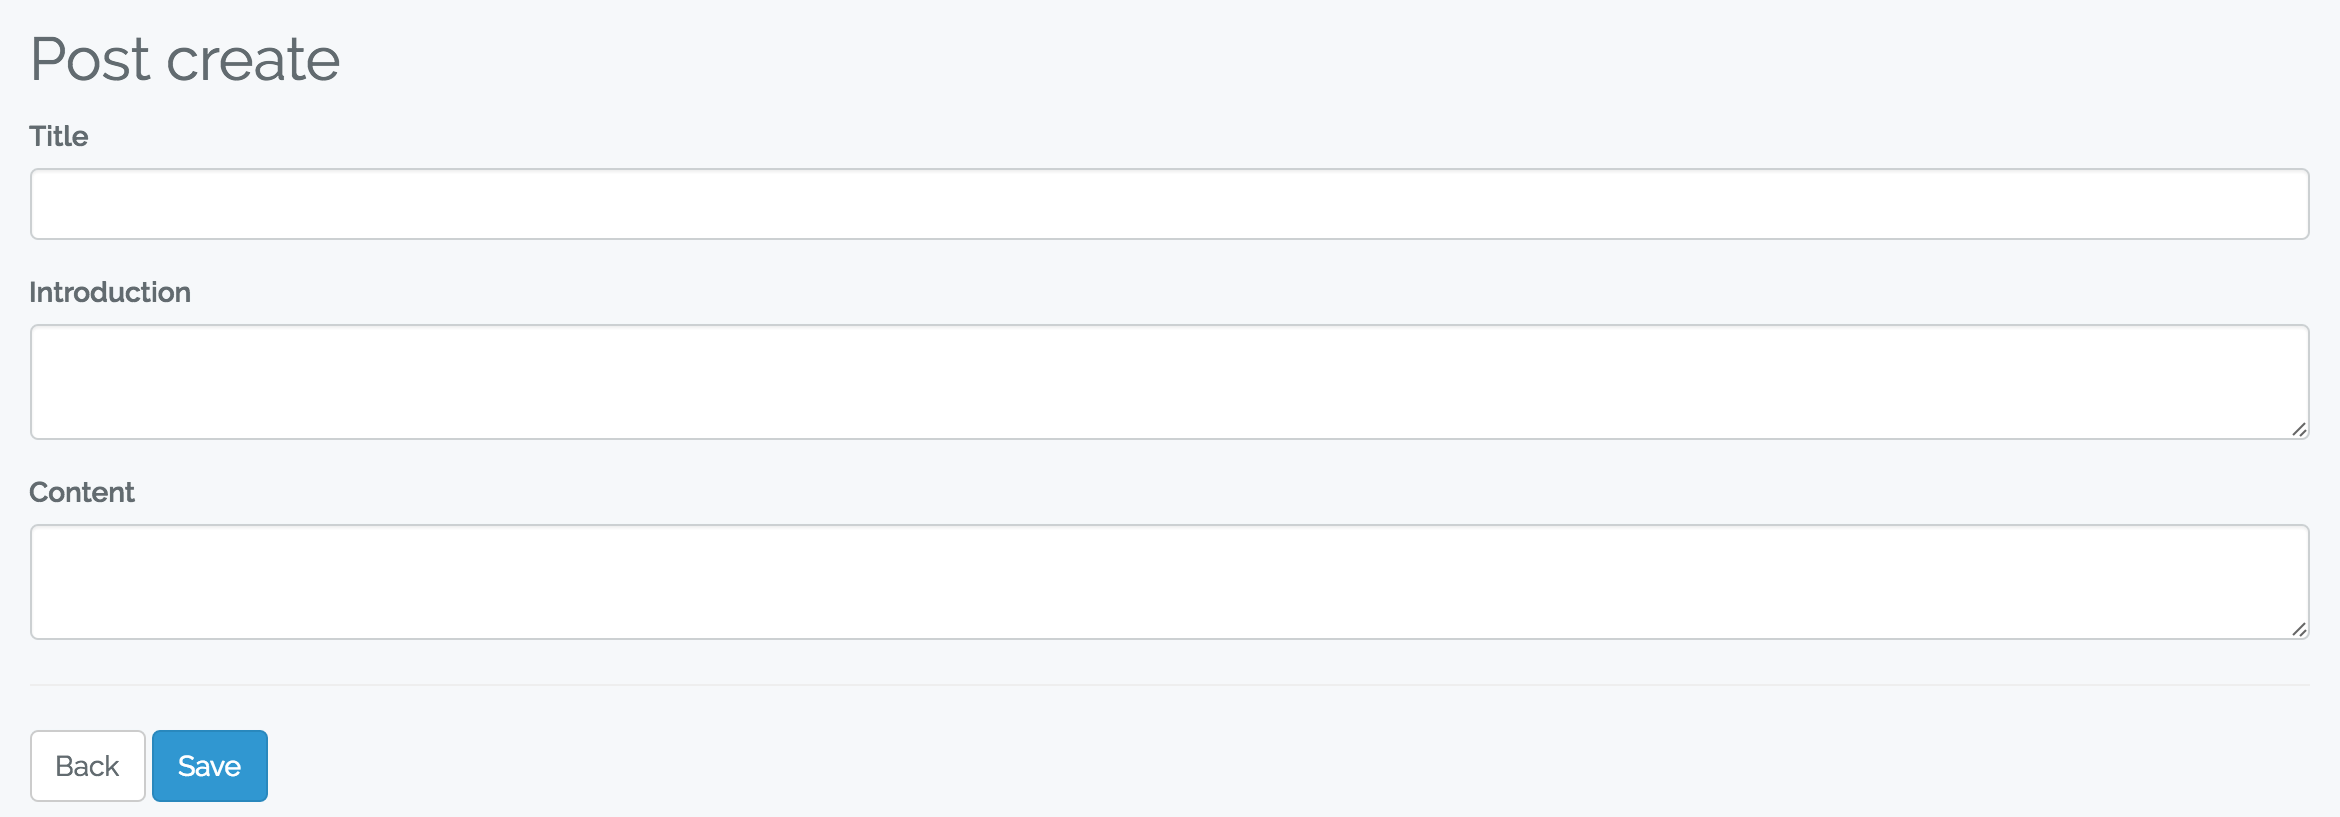
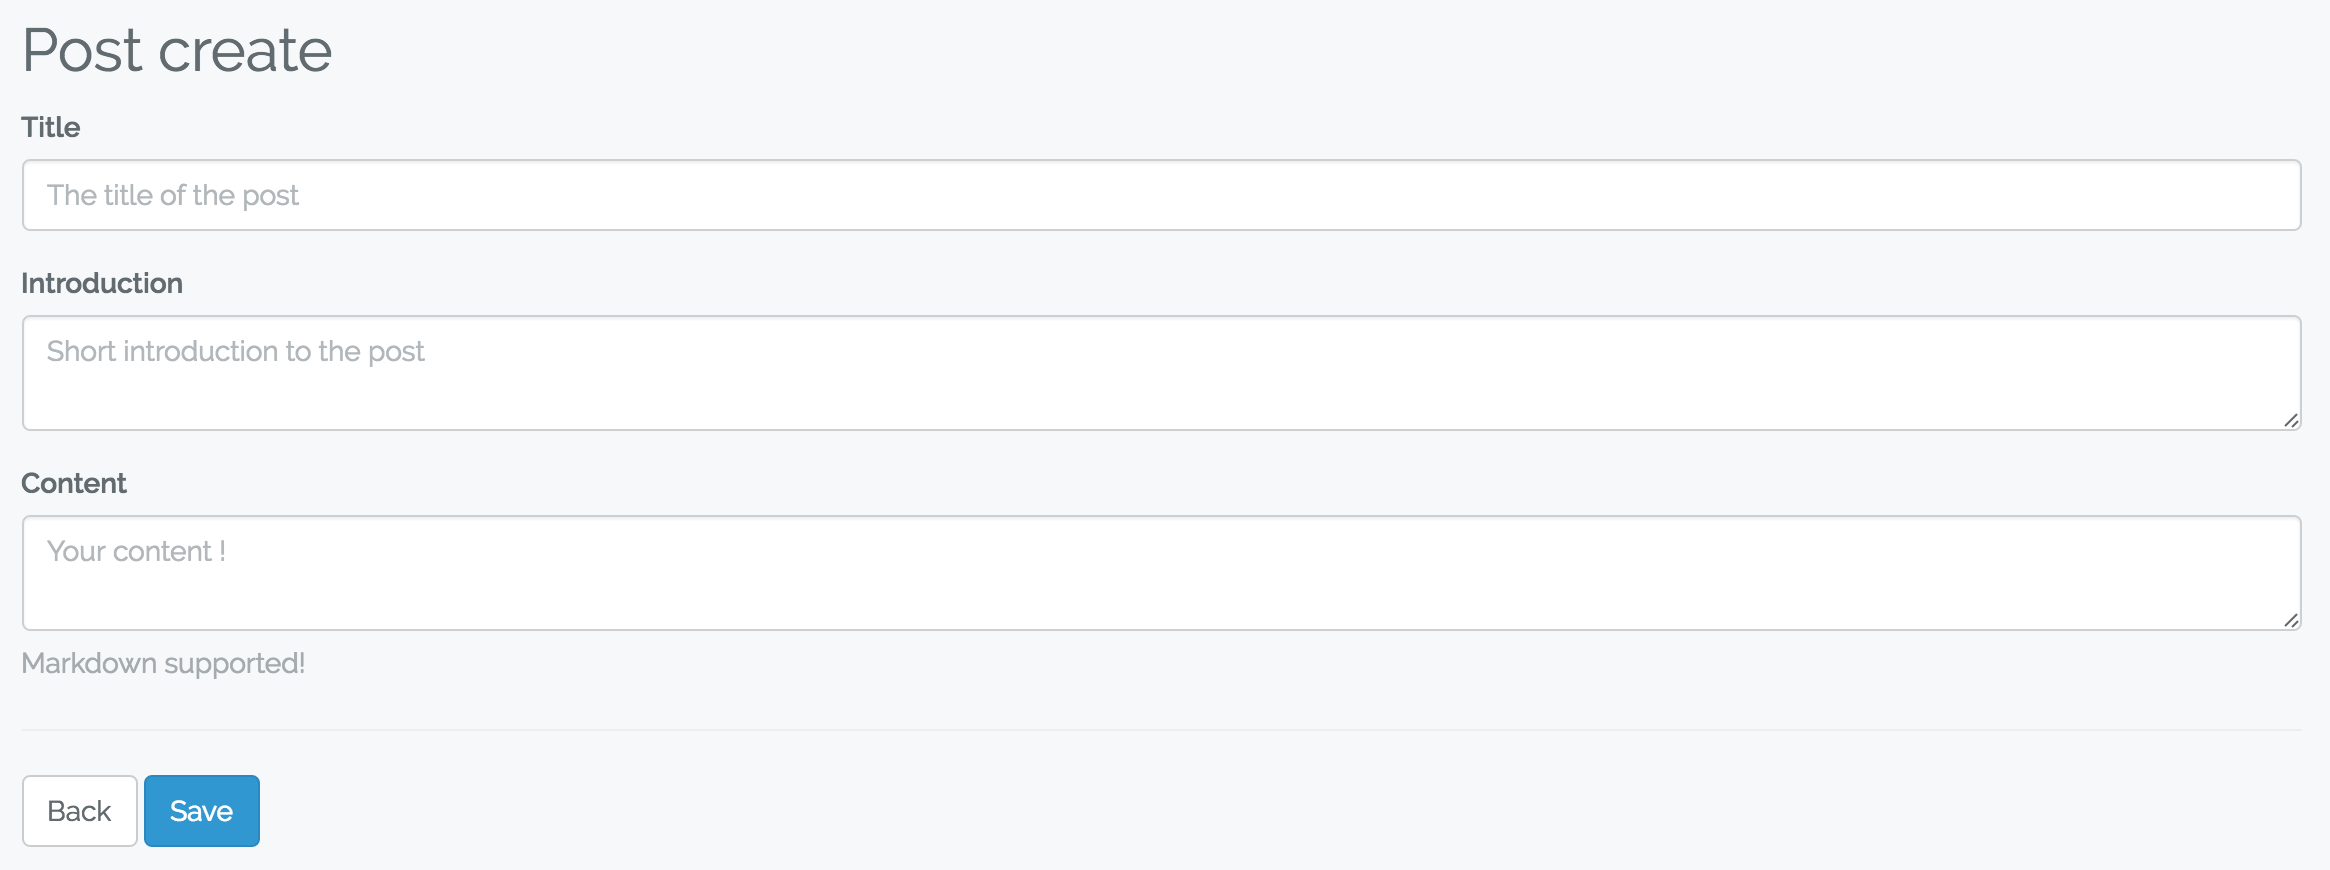
Doc [ci skip]

diff --git a/readme.md b/readme.md
@@ -68,9 +68,13 @@ class Post extends Model
     public function getCrudFields()
     {
         return CrudFields::make([
-            TextField::handle('title', 'required|min:3')->withPlaceholder('The title of the post'),
-            TextareaField::handle('introduction', 'required|min:3')->withPlaceholder('Short introduction to the post'),
-            TextareaField::handle('content', 'required|min:3')->withPlaceholder('Your content !')->withHelp('Markdown supported!')
+            TextField::handle('title', 'required|min:3')
+                ->withPlaceholder('The title of the post'),
+            TextareaField::handle('introduction', 'required|min:3')
+                ->withPlaceholder('Short introduction to the post'),
+            TextareaField::handle('content', 'required|min:3')
+                ->withPlaceholder('Your content !')
+                ->withHelp('My custom help')
         ]);
     }
     
